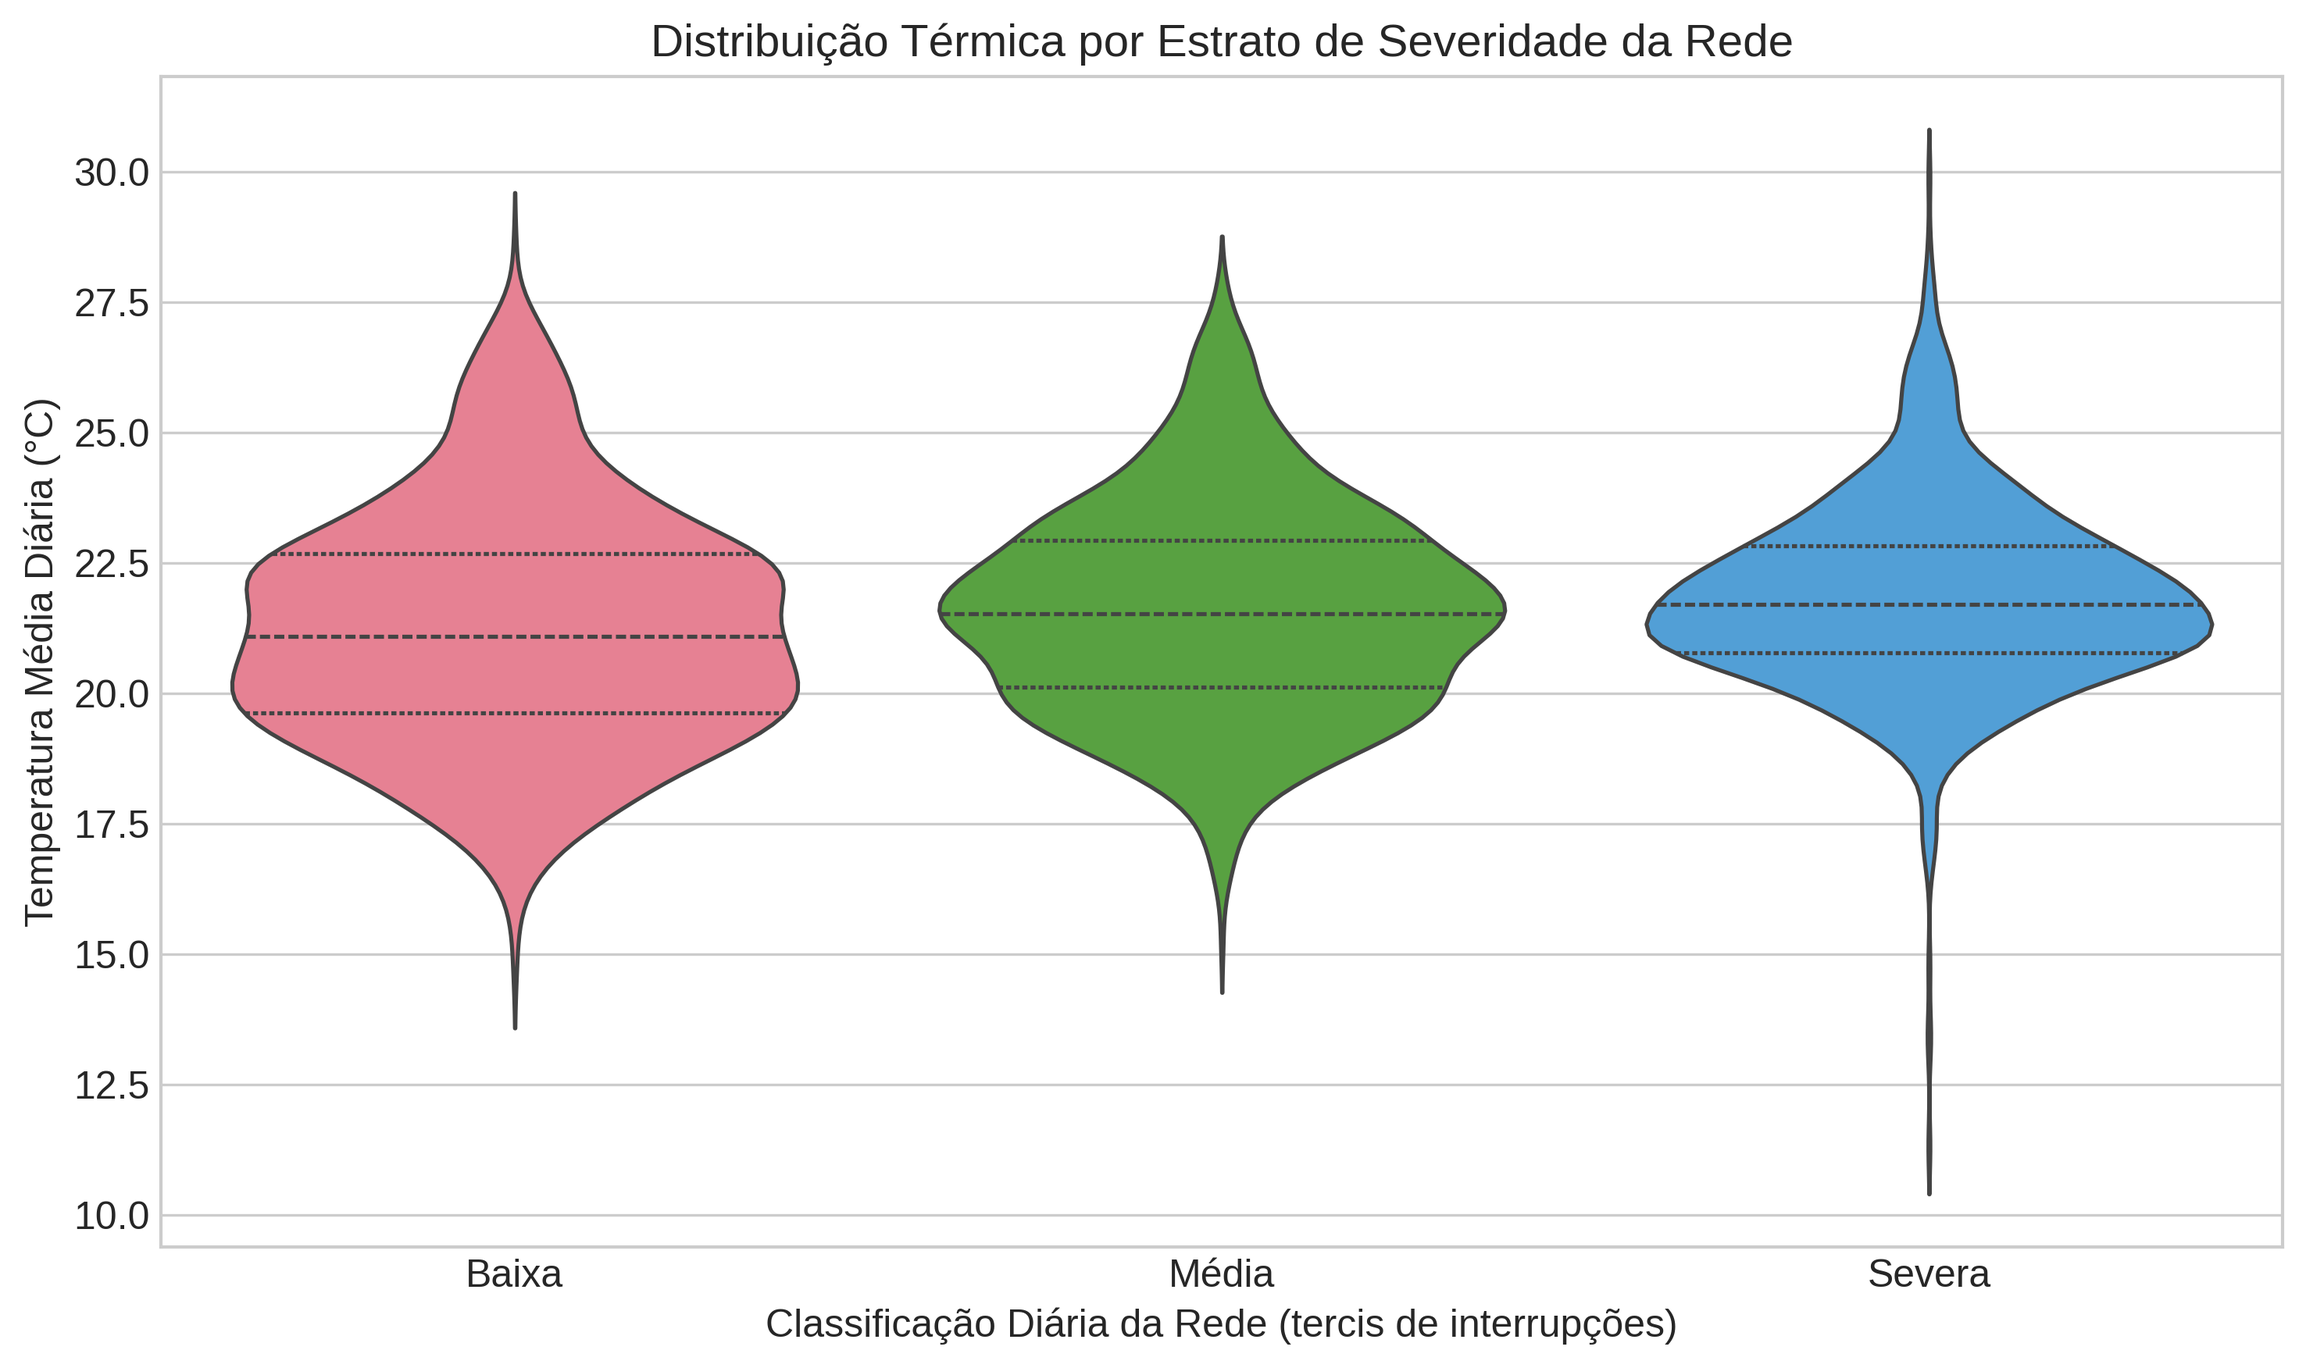
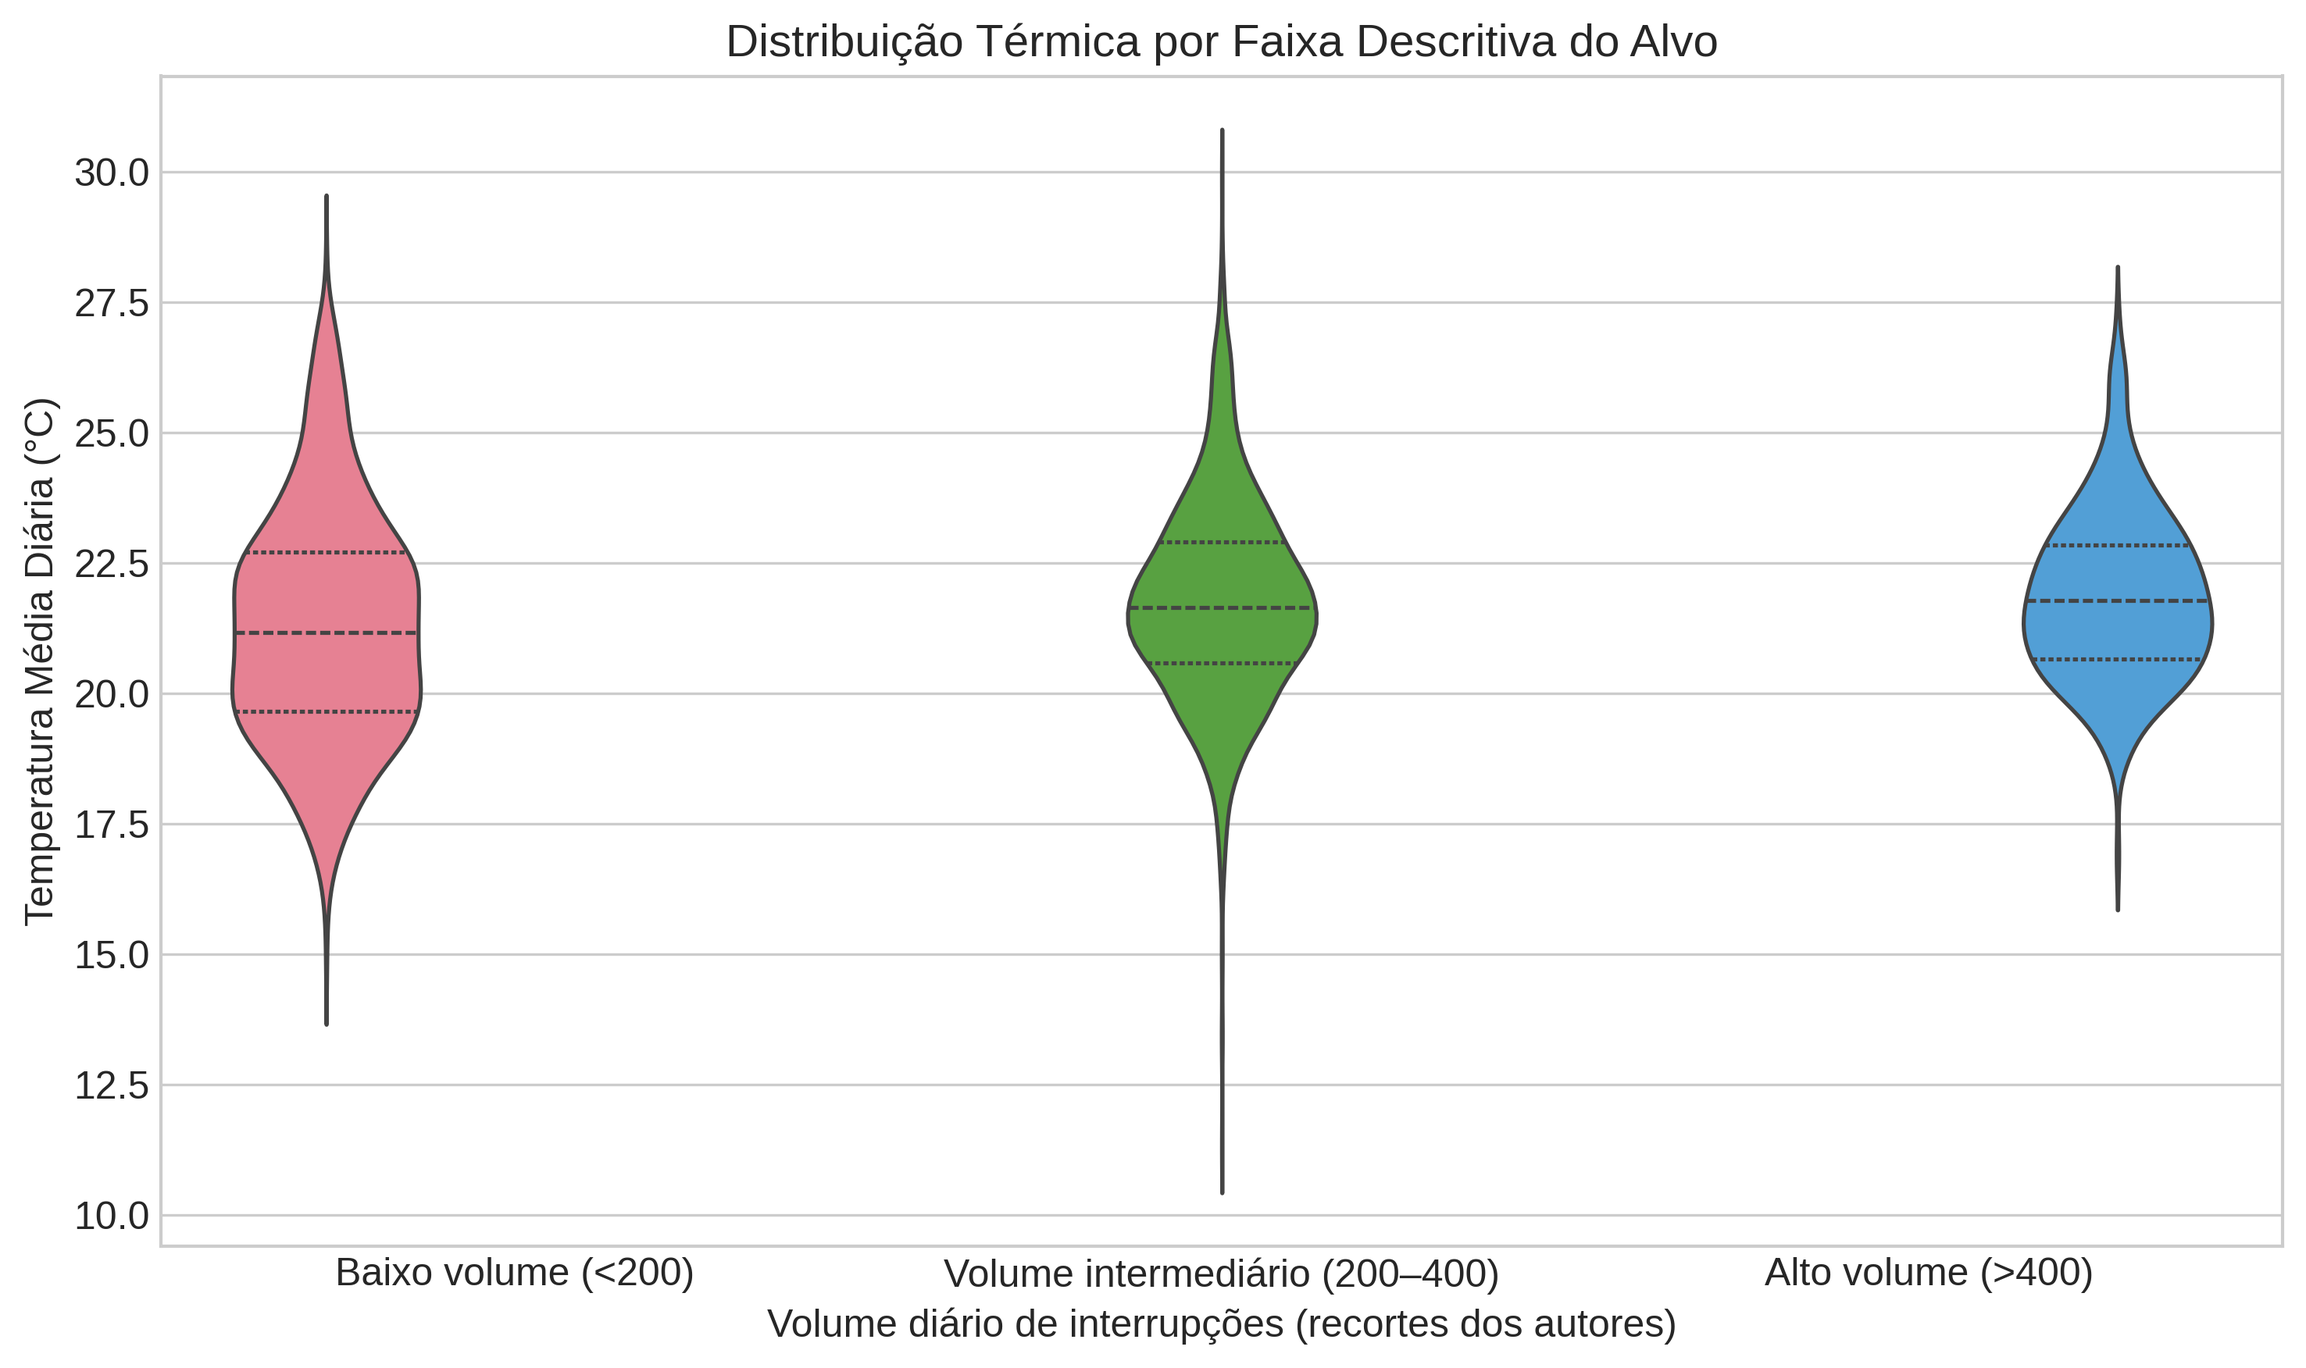
fix(analise): unificar faixas do alvo canonico

diff --git a/Fonte/src/models/evaluate_severity.py b/Fonte/src/models/evaluate_severity.py
@@ -1,0 +1,115 @@
+"""Avalia os modelos de h=1 com faixas criadas sobre um único alvo canônico."""
+
+from __future__ import annotations
+
+import argparse
+import sys
+from pathlib import Path
+
+import numpy as np
+import pandas as pd
+
+
+MODELS_DIR = Path(__file__).resolve().parent
+SOURCE_DIR = MODELS_DIR.parent
+FONTE_DIR = SOURCE_DIR.parent
+sys.path.insert(0, str(SOURCE_DIR))
+
+from severity import volume_band_masks  # noqa: E402
+
+
+DATASET_PATH = FONTE_DIR / "data" / "dataset_engenharia_features.csv"
+RESULTS_DIR = FONTE_DIR / "results" / "ml"
+MODEL_FILES = {
+    "XGBoost": "predictions_xgboost.csv",
+    "Bi-LSTM": "predictions_lstm_bi.csv",
+    "Bi-GRU": "predictions_gru_bi.csv",
+}
+
+
+def canonical_target(dataset_path: Path | str = DATASET_PATH) -> pd.Series:
+    frame = pd.read_csv(
+        dataset_path,
+        usecols=["data", "interrupcoes"],
+        parse_dates=["data"],
+    )
+    if frame["data"].duplicated().any():
+        raise ValueError("O alvo canônico contém datas duplicadas.")
+    values = frame.set_index("data")["interrupcoes"].sort_index()
+    rounded = values.round().astype(int)
+    if not np.allclose(values.to_numpy(), rounded.to_numpy(), atol=1e-8):
+        raise ValueError("O alvo canônico deve conter contagens inteiras.")
+    return rounded
+
+
+def _load_predictions(
+    results_dir: Path,
+    model_files: dict[str, str],
+) -> tuple[dict[str, pd.Series], pd.DatetimeIndex]:
+    predictions: dict[str, pd.Series] = {}
+    reference_dates: pd.DatetimeIndex | None = None
+    for model, filename in model_files.items():
+        frame = pd.read_csv(results_dir / filename, parse_dates=["data"])
+        if frame["data"].duplicated().any():
+            raise ValueError(f"{model} contém datas duplicadas.")
+        series = frame.set_index("data")["pred"].sort_index()
+        if series.isna().any():
+            raise ValueError(f"{model} contém previsões ausentes.")
+        dates = pd.DatetimeIndex(series.index)
+        if reference_dates is None:
+            reference_dates = dates
+        elif not dates.equals(reference_dates):
+            raise ValueError("Os modelos não possuem exatamente as mesmas datas.")
+        predictions[model] = series
+    if reference_dates is None or reference_dates.empty:
+        raise ValueError("Nenhuma previsão foi encontrada.")
+    return predictions, reference_dates
+
+
+def evaluate_severity(
+    target: pd.Series,
+    results_dir: Path | str = RESULTS_DIR,
+    model_files: dict[str, str] | None = None,
+) -> pd.DataFrame:
+    """Calcula contagens e MAE reutilizando as mesmas máscaras em todos os modelos."""
+    selected_files = MODEL_FILES if model_files is None else model_files
+    predictions, dates = _load_predictions(Path(results_dir), selected_files)
+    y_true = target.reindex(dates)
+    if y_true.isna().any():
+        raise ValueError("O alvo canônico não cobre todas as datas de previsão.")
+
+    rows: list[dict[str, object]] = []
+    for label, mask in volume_band_masks(y_true).items():
+        row: dict[str, object] = {
+            "Faixa": label,
+            "Dias": int(mask.sum()),
+            "Percentual": float(mask.mean() * 100),
+        }
+        for model, prediction in predictions.items():
+            row[model] = float((y_true[mask] - prediction[mask]).abs().mean())
+        rows.append(row)
+    return pd.DataFrame(rows)
+
+
+def parse_args() -> argparse.Namespace:
+    parser = argparse.ArgumentParser(description=__doc__)
+    parser.add_argument("--dataset", type=Path, default=DATASET_PATH)
+    parser.add_argument("--results-dir", type=Path, default=RESULTS_DIR)
+    parser.add_argument(
+        "--output",
+        type=Path,
+        default=RESULTS_DIR / "metrics_severity.csv",
+    )
+    return parser.parse_args()
+
+
+if __name__ == "__main__":
+    arguments = parse_args()
+    output = evaluate_severity(
+        canonical_target(arguments.dataset),
+        arguments.results_dir,
+    )
+    arguments.output.parent.mkdir(parents=True, exist_ok=True)
+    output.to_csv(arguments.output, index=False)
+    print(output.to_string(index=False))
+    print("[OK] Faixas calculadas sobre um único alvo canônico inteiro.")

diff --git a/Fonte/tests/test_severity_corrections.py b/Fonte/tests/test_severity_corrections.py
@@ -1,0 +1,83 @@
+"""Regressões para as faixas descritivas e o alvo canônico."""
+
+from __future__ import annotations
+
+import sys
+import tempfile
+import unittest
+from pathlib import Path
+
+import pandas as pd
+
+
+FONTE_DIR = Path(__file__).resolve().parents[1]
+SRC_DIR = FONTE_DIR / "src"
+MODELS_DIR = SRC_DIR / "models"
+sys.path.insert(0, str(SRC_DIR))
+sys.path.insert(0, str(MODELS_DIR))
+
+from evaluate_severity import canonical_target, evaluate_severity  # noqa: E402
+from severity import classify_volume, volume_band_masks  # noqa: E402
+
+
+class SeverityCorrectionTests(unittest.TestCase):
+    def test_boundaries_are_unambiguous(self) -> None:
+        target = pd.Series([199, 200, 400, 401])
+        masks = volume_band_masks(target)
+        self.assertEqual([int(mask.sum()) for mask in masks.values()], [1, 2, 1])
+        labels = classify_volume(target).astype(str).tolist()
+        self.assertIn("<200", labels[0])
+        self.assertIn("200–400", labels[1])
+        self.assertIn("200–400", labels[2])
+        self.assertIn(">400", labels[3])
+
+    def test_evaluation_ignores_model_specific_real_columns(self) -> None:
+        dates = pd.date_range("2025-01-01", periods=4, freq="D")
+        target = pd.Series([199, 200, 400, 401], index=dates)
+        model_files = {
+            "Modelo A": "a.csv",
+            "Modelo B": "b.csv",
+            "Modelo C": "c.csv",
+        }
+        with tempfile.TemporaryDirectory() as directory:
+            path = Path(directory)
+            for offset, filename in enumerate(model_files.values(), start=1):
+                pd.DataFrame(
+                    {
+                        "data": dates,
+                        "real": [999.0] * 4,
+                        "pred": target.to_numpy() + offset,
+                    }
+                ).to_csv(path / filename, index=False)
+            result = evaluate_severity(target, path, model_files)
+        self.assertEqual(result["Dias"].tolist(), [1, 2, 1])
+        self.assertEqual(result["Modelo A"].tolist(), [1.0, 1.0, 1.0])
+        self.assertEqual(result["Modelo B"].tolist(), [2.0, 2.0, 2.0])
+
+    def test_models_must_share_the_same_dates(self) -> None:
+        dates = pd.date_range("2025-01-01", periods=2, freq="D")
+        target = pd.Series([100, 300], index=dates)
+        model_files = {"A": "a.csv", "B": "b.csv"}
+        with tempfile.TemporaryDirectory() as directory:
+            path = Path(directory)
+            pd.DataFrame({"data": dates, "pred": [100, 300]}).to_csv(
+                path / "a.csv", index=False
+            )
+            pd.DataFrame({"data": dates + pd.Timedelta(days=1), "pred": [100, 300]}).to_csv(
+                path / "b.csv", index=False
+            )
+            with self.assertRaisesRegex(ValueError, "mesmas datas"):
+                evaluate_severity(target, path, model_files)
+
+    def test_canonical_target_requires_integer_counts(self) -> None:
+        with tempfile.TemporaryDirectory() as directory:
+            path = Path(directory) / "dataset.csv"
+            pd.DataFrame(
+                {"data": ["2025-01-01"], "interrupcoes": [10.5]}
+            ).to_csv(path, index=False)
+            with self.assertRaisesRegex(ValueError, "contagens inteiras"):
+                canonical_target(path)
+
+
+if __name__ == "__main__":
+    unittest.main()

diff --git a/Fonte/src/04_eda_basica.py b/Fonte/src/04_eda_basica.py
@@ -8,7 +8,7 @@ Gera os gráficos descritivos de alto nível usados no Cap. 4 da monografia:
   - distribuicao_interrupcoes.png      (histograma + KDE com média e mediana)
   - evolucao_anual_interrupcoes.png    (média ± desvio-padrão por ano)
   - correlacoes_escala_temporal.png    (Pearson em 3 escalas: diária / semanal / mensal)
-  - eda_violin_anomalias.png           (violinplot termodinâmica vs severidade da rede)
+  - eda_violin_anomalias.png           (temperatura vs faixas descritivas do alvo)
 
 Fonte de dados:
   ../data/base_diaria_interrupcoes_clima_vento.csv
@@ -24,6 +24,8 @@ import numpy as np
 import matplotlib.pyplot as plt
 import seaborn as sns
 import os
+
+from severity import classify_volume
 
 plt.style.use('seaborn-v0_8-whitegrid')
 plt.rcParams.update({
@@ -209,17 +211,17 @@ def plot_correlacoes_escala_temporal(df, save_path,
 
 
 def plot_violin_anomalias(df, save_path):
-    """Distribuição da temperatura por estrato de severidade da rede."""
-    print("Gerando violin de anomalias térmicas vs severidade...")
+    """Distribuição da temperatura pelas faixas descritivas do alvo."""
+    print("Gerando violin de temperatura vs volume de interrupções...")
     df2 = df[['interrupcoes', 'temperatura_media']].dropna().copy()
-    df2['Severidade'] = pd.qcut(df2['interrupcoes'], q=3,
-                                labels=['Baixa', 'Média', 'Severa'])
+    df2['Faixa de volume'] = classify_volume(df2['interrupcoes'])
 
     plt.figure(figsize=(10, 6))
-    sns.violinplot(x='Severidade', y='temperatura_media', data=df2,
-                   palette='husl', inner='quartile')
-    plt.title('Distribuição Térmica por Estrato de Severidade da Rede')
-    plt.xlabel('Classificação Diária da Rede (tercis de interrupções)')
+    sns.violinplot(x='Faixa de volume', y='temperatura_media',
+                   hue='Faixa de volume', data=df2, palette='husl',
+                   inner='quartile', legend=False)
+    plt.title('Distribuição Térmica por Faixa Descritiva do Alvo')
+    plt.xlabel('Volume diário de interrupções (recortes dos autores)')
     plt.ylabel('Temperatura Média Diária (°C)')
     plt.tight_layout()
     plt.savefig(save_path, dpi=300, bbox_inches='tight')

diff --git a/Fonte/src/severity.py b/Fonte/src/severity.py
@@ -1,0 +1,44 @@
+"""Faixas descritivas do volume diário de interrupções.
+
+Os limites foram definidos pelos autores para análise exploratória. Eles não
+representam categorias regulatórias oficiais da ANEEL.
+"""
+
+from __future__ import annotations
+
+import numpy as np
+import pandas as pd
+
+
+LOW_VOLUME_LABEL = "Baixo volume (<200)"
+MID_VOLUME_LABEL = "Volume intermediário (200–400)"
+HIGH_VOLUME_LABEL = "Alto volume (>400)"
+VOLUME_BAND_LABELS = (LOW_VOLUME_LABEL, MID_VOLUME_LABEL, HIGH_VOLUME_LABEL)
+
+
+def volume_band_masks(target: pd.Series) -> dict[str, pd.Series]:
+    """Cria uma única máscara por faixa sobre a série-alvo recebida."""
+    values = pd.to_numeric(target, errors="coerce")
+    if values.isna().any():
+        raise ValueError("O alvo contém valores ausentes ou não numéricos.")
+    return {
+        LOW_VOLUME_LABEL: values < 200,
+        MID_VOLUME_LABEL: (values >= 200) & (values <= 400),
+        HIGH_VOLUME_LABEL: values > 400,
+    }
+
+
+def classify_volume(target: pd.Series) -> pd.Series:
+    """Classifica o alvo nas mesmas faixas usadas na avaliação dos modelos."""
+    masks = volume_band_masks(target)
+    classified = np.select(
+        [mask.to_numpy() for mask in masks.values()],
+        list(masks),
+        default=None,
+    )
+    categorical = pd.Categorical(
+        classified,
+        categories=VOLUME_BAND_LABELS,
+        ordered=True,
+    )
+    return pd.Series(categorical, index=target.index, name="Faixa de volume")

diff --git a/Fonte/README.md b/Fonte/README.md
@@ -37,12 +37,14 @@ Fonte/
 │   ├── 04_eda_basica.py                    # série completa, distribuição, etc.
 │   ├── 05_correlacoes_unificadas.py        # agregações e correlações canônicas
 │   ├── aggregation.py                      # regras físicas por variável
+│   ├── severity.py                         # faixas descritivas centralizadas
 │   └── models/
 │       ├── data_loader_dl.py              # janelamento + MinMax para PyTorch
 │       ├── baseline_xgboost.py            # XGBoost: treino + avaliação + gráficos
 │       ├── lstm_bidirecional.py           # Bi-LSTM: treino + avaliação + gráficos
 │       ├── gru_avancada.py                # Bi-GRU: treino + avaliação + gráficos
 │       ├── advanced_plots.py              # gráficos comparativos (KDE, heteroscedasticidade)
+│       ├── evaluate_severity.py            # MAE por faixa sobre alvo canônico
 │       └── script_exploration_pipeline.py # EDA exploratória rápida (3 figuras)
 │
 ├── results/                                # Artefatos gerados pelos scripts
@@ -120,6 +122,7 @@ python previsao_multihorizonte.py        # avaliação multi-horizonte (h=1,3,7,
 python plot_multihorizonte.py            # gráficos de desempenho por horizonte
 python plot_multihorizonte_temporal.py   # séries anuais e MAE mensal por horizonte
 python advanced_plots.py                 # gráficos comparativos (KDE, heteroscedasticidade)
+python evaluate_severity.py              # MAE por faixa do volume diário
 ```
 
 ## Reprodutibilidade
@@ -129,6 +132,7 @@ python advanced_plots.py                 # gráficos comparativos (KDE, heterosc
 - **XGBoost**: `random_state=42`. Reprodução determinística.
 - **LSTM/GRU (PyTorch)**: pequenas variações são esperadas entre execuções por causa do non-determinism interno do cuDNN/CUDA. As métricas reportadas no Capítulo 4 da monografia foram obtidas com o ambiente especificado no Apêndice (Reprodutibilidade).
 - **MAPE**: observações com valor real igual a zero são excluídas apenas dessa métrica; MAE, RMSE e R² continuam usando todas as observações.
+- **Faixas do alvo**: os limites `<200`, `200–400` e `>400` são recortes descritivos definidos pelos autores, calculados uma única vez sobre o alvo canônico inteiro. Não são categorias regulatórias oficiais da ANEEL.
 
 ## Métricas de referência (test set, 365 dias, h=1 direto)
 

diff --git a/ROTEIRO_PROFESSOR.md b/ROTEIRO_PROFESSOR.md
@@ -61,7 +61,7 @@ Diagramas de fluxo (pipeline de dados, arquitetura experimental) — todos **Tik
 | `cross_corr_vento_interrupcoes` | Cross-correlation rajada(t-lag) × interrupções | idem | idem |
 | `eda_scatter_ventos` | Scatter rajada × interrupções (cor=chuva) | `Fonte/src/models/script_exploration_pipeline.py` | idem |
 | `eda_boxplot_sazonalidade` | Boxplot mensal | idem | idem |
-| `eda_violin_anomalias` | Violin temperatura × tercis de severidade | `Fonte/src/04_eda_basica.py::plot_violin_anomalias` | idem |
+| `eda_violin_anomalias` | Violin temperatura × faixas descritivas do volume diário | `Fonte/src/04_eda_basica.py::plot_violin_anomalias` | idem |
 | `interrupcoes_vs_precipitacao_mensal` | Linha + barra precipitação mensal | `TerceiroPedido/scripts/t4_precipitacao_cores.py` | `aggregados_mensal_interrupcoes_precipitacao.csv` |
 | `interrupcoes_vs_precipitacao_semanal` | Linha + barra precipitação semanal | idem | `aggregados_semanal_interrupcoes_precipitacao.csv` |
 | `mensal_interrupcoes_vs_rajada_max` | Linha + barra rajada mensal | `TerceiroPedido/scripts/t9_vento_agregado_semana_mes.py` | `aggregados_mensal_interrupcoes_vento.csv` |
